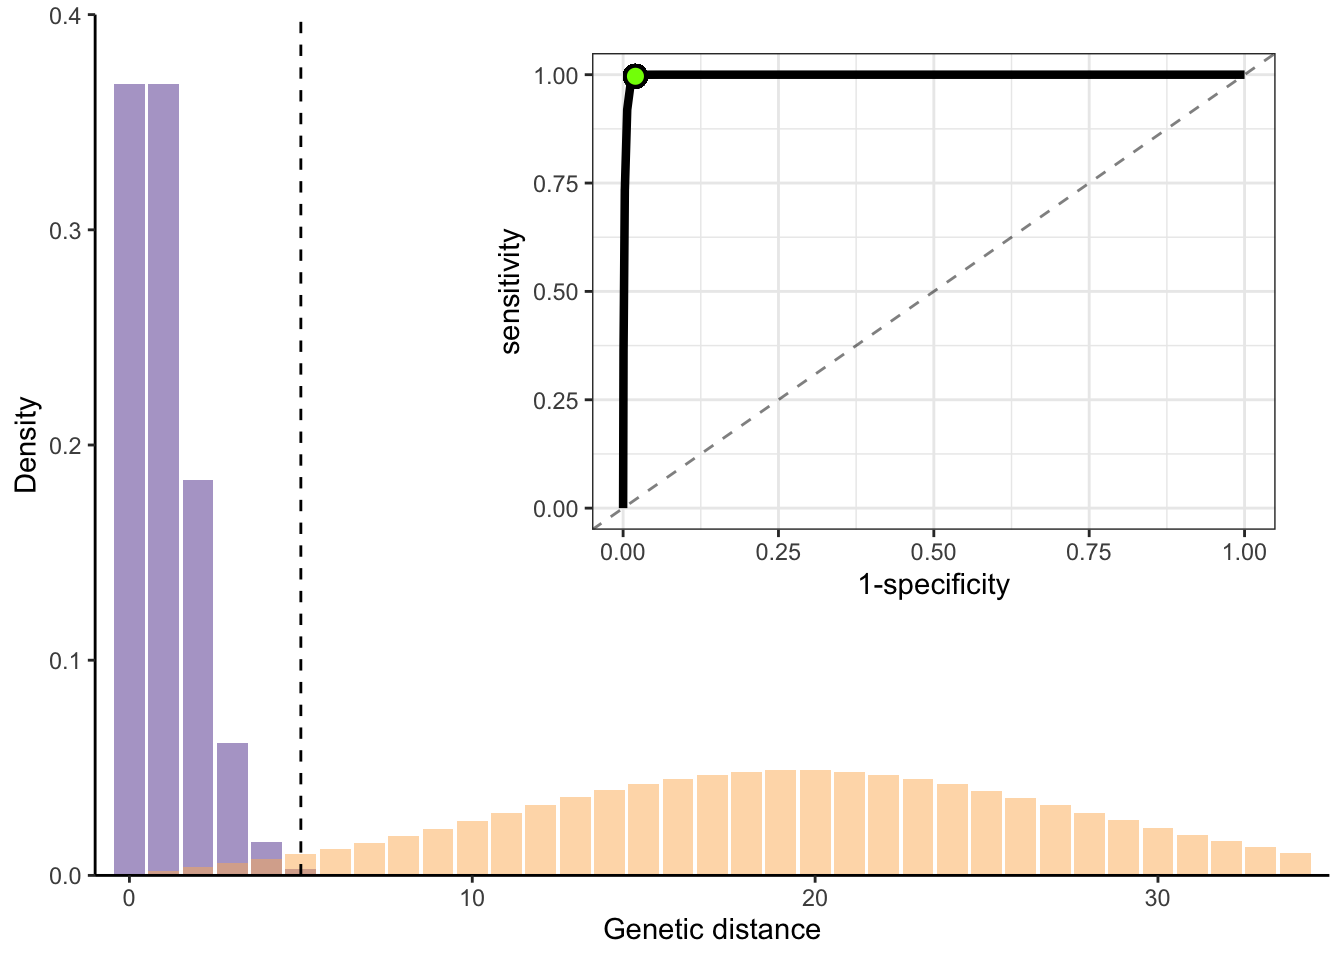
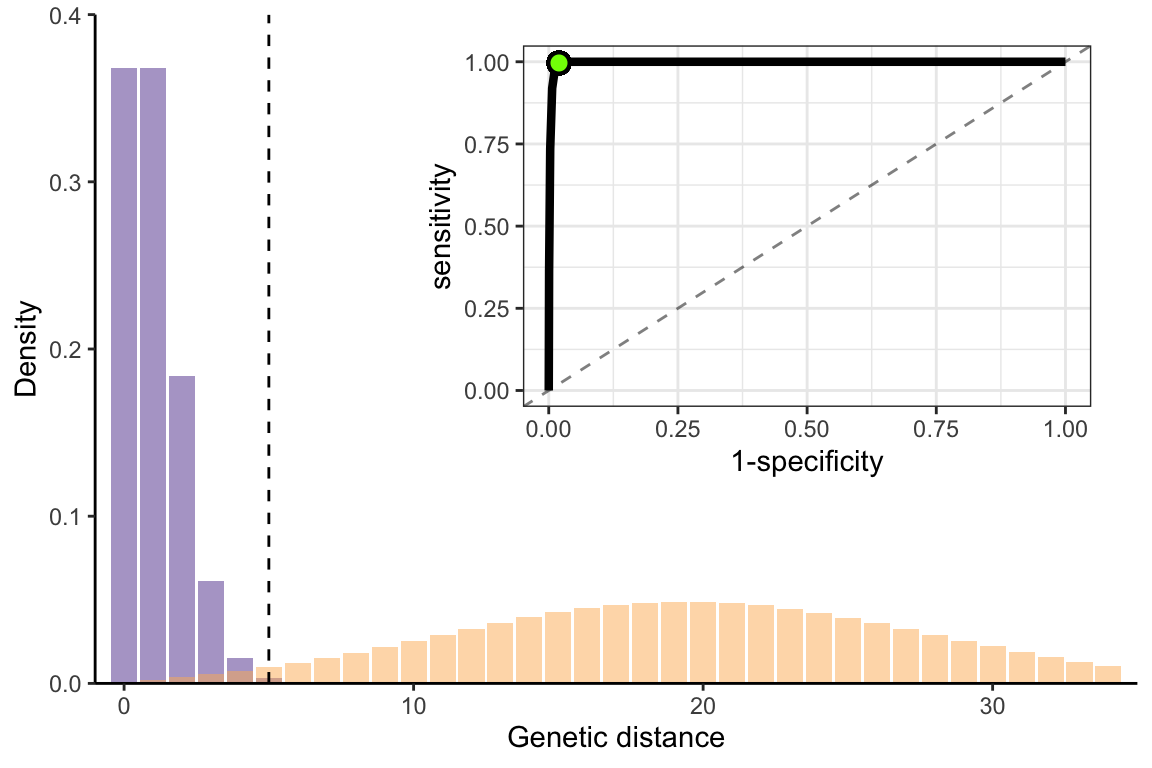
M >= allowed, vignette and website rebuild

diff --git a/docs/articles/V4_FullExamples.html b/docs/articles/V4_FullExamples.html
@@ -107,7 +107,7 @@
 <style type="text/css">
 
 h1.title {
-  font-size: 22px
+  font-size: 18px
 }
 
 </style>
@@ -172,7 +172,7 @@ h1.title {
     <span class="fu"><a href="https://ggplot2.tidyverse.org/reference/ggtheme.html">theme_bw</a></span>()
 
 <span class="kw pkg">cowplot</span><span class="kw ns">::</span><span class="fu"><a href="https://rdrr.io/pkg/cowplot/man/ggdraw.html">ggdraw</a></span>(<span class="no">p1</span>) + <span class="kw pkg">cowplot</span><span class="kw ns">::</span><span class="fu"><a href="https://rdrr.io/pkg/cowplot/man/draw_plot.html">draw_plot</a></span>(<span class="no">r1</span>, <span class="kw">hjust</span><span class="kw">=</span>-<span class="fl">0.16</span>, <span class="kw">vjust</span><span class="kw">=</span>-<span class="fl">0.16</span>, <span class="kw">scale</span><span class="kw">=</span><span class="fl">0.6</span>)</pre></body></html></div>
-<p><img src="V4_FullExamples_files/figure-html/gen_dist_compare_ebov-1.png" width="672"></p>
+<p><img src="V4_FullExamples_files/figure-html/gen_dist_compare_ebov-1.png" width="576"></p>
 </div>
 <div id="optimal-values-for-an-ebola-like-pathogen" class="section level3">
 <h3 class="hasAnchor">
@@ -195,7 +195,7 @@ h1.title {
 <div id="calculating-sensitivity-and-specificity-for-a-faster-spreading-slower-mutating-pathogen" class="section level3">
 <h3 class="hasAnchor">
 <a href="#calculating-sensitivity-and-specificity-for-a-faster-spreading-slower-mutating-pathogen" class="anchor"></a>Calculating sensitivity and specificity for a faster-spreading, slower mutating pathogen</h3>
-<p><img src="V4_FullExamples_files/figure-html/gen_dist_mev_plot-1.png" width="672"></p>
+<p><img src="V4_FullExamples_files/figure-html/gen_dist_mev_plot-1.png" width="576"></p>
 </div>
 <div id="optimal-values-for-a-faster-spreading-slower-mutating-pathogen" class="section level3">
 <h3 class="hasAnchor">

diff --git a/docs/articles/V1_FalseDicoveryRate.html b/docs/articles/V1_FalseDicoveryRate.html
@@ -107,7 +107,7 @@
 <style type="text/css">
 
 h1.title {
-  font-size: 22px
+  font-size: 18px
 }
 
 </style>

diff --git a/docs/articles/V2_SampleSize.html b/docs/articles/V2_SampleSize.html
@@ -107,7 +107,7 @@
 <style type="text/css">
 
 h1.title {
-  font-size: 22px
+  font-size: 18px
 }
 
 </style>

diff --git a/docs/articles/V3_SensitivitySpecificity.html b/docs/articles/V3_SensitivitySpecificity.html
@@ -107,7 +107,7 @@
 <style type="text/css">
 
 h1.title {
-  font-size: 22px
+  font-size: 18px
 }
 
 </style>
